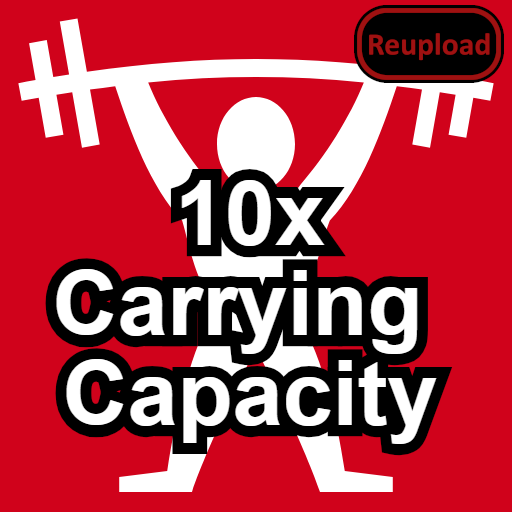
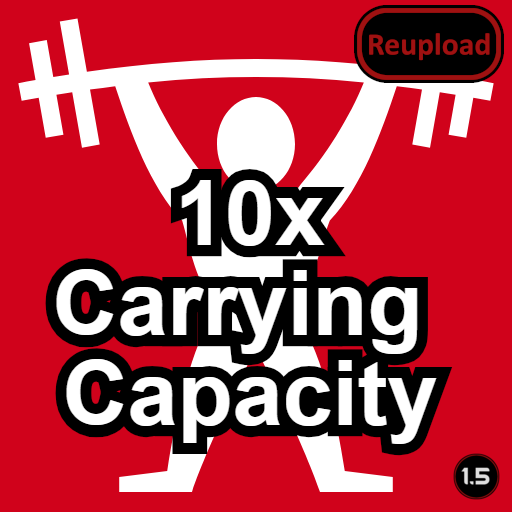
Mod updated for 1.5 and passed autotests

Changed region(s): [[0.875, 0.875, 1.0, 1.0]]

diff --git a/README.md b/README.md
@@ -36,11 +36,13 @@ With all 3 of the above, one pawn can essentially "sweep" the entire set of star
 
 -  See if the the error persists if you just have this mod and its requirements active.
 -  If not, try adding your other mods until it happens again.
--  Post your error-log using https://steamcommunity.com/workshop/filedetails/?id=818773962]HugsLib and command Ctrl+F12
+-  Post your error-log using https://steamcommunity.com/workshop/filedetails/?id=818773962]HugsLib or the standalone https://steamcommunity.com/sharedfiles/filedetails/?id=2873415404]Uploader and command Ctrl+F12
 -  For best support, please use the Discord-channel for error-reporting.
 -  Do not report errors by making a discussion-thread, I get no notification of that.
 -  If you have the solution for a problem, please post it to the GitHub repository.
+-  Use https://github.com/RimSort/RimSort/releases/latest]RimSort to sort your mods
 
 
 
+https://steamcommunity.com/sharedfiles/filedetails/changelog/2019000693]![Image](https://img.shields.io/github/v/release/emipa606/10xCarryingCapacity?label=latest%20version&style=plastic&color=9f1111&labelColor=black)
 
